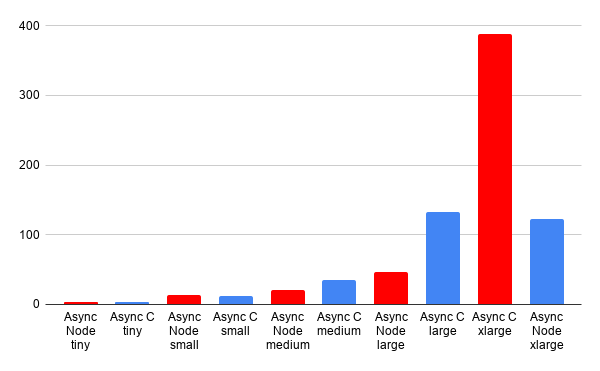
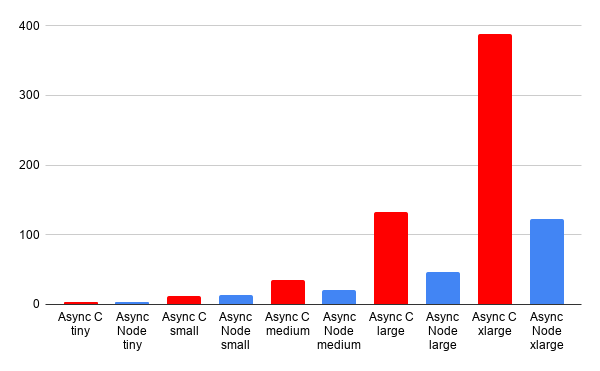
fix(blog): Adjust bad image

diff --git a/content/blog/understanding-eventing/index.md b/content/blog/understanding-eventing/index.md
@@ -169,7 +169,7 @@ Conventional wisdom states that lower level languages are faster so lets take a 
 
 ![Node and C Comparision](./NodevC.png)
 
-What we will notice is that the C implementation is consistently faster but not by as much as you might think. These differences are not nearly as significat as one might expect. If we consider this workload more deeply a majority of required time complexity comes from reading from the file system. This problem is not directly owned by either language. The time to load a file is largely dictated by the kernal. Now where things can get interesting and where some of the benefit lies is that C gives you direct control over memory. In the C implementation I was able to get just a bit more performance by being clever with my memory allocations.
+What we will notice is that the C implementation is consistently faster. However, these differences are not nearly as significat as one might expect. If we consider this workload more deeply a majority of required time complexity comes from reading from the file system. This problem is not directly owned by either language. The time to load a file is largely dictated by the kernal. Now where things can get interesting and where some of the benefit lies is that C gives you direct control over memory. In the C implementation I was able to get just a bit more performance by being clever with my memory allocations.
 
 Lastly let's consider the cost of getting things wrong. Remember how I mentioned the original C abstraction I created wasn't working well? If we compare this to the Node example we can see that a poor implementation in C is quite detrimental.
 